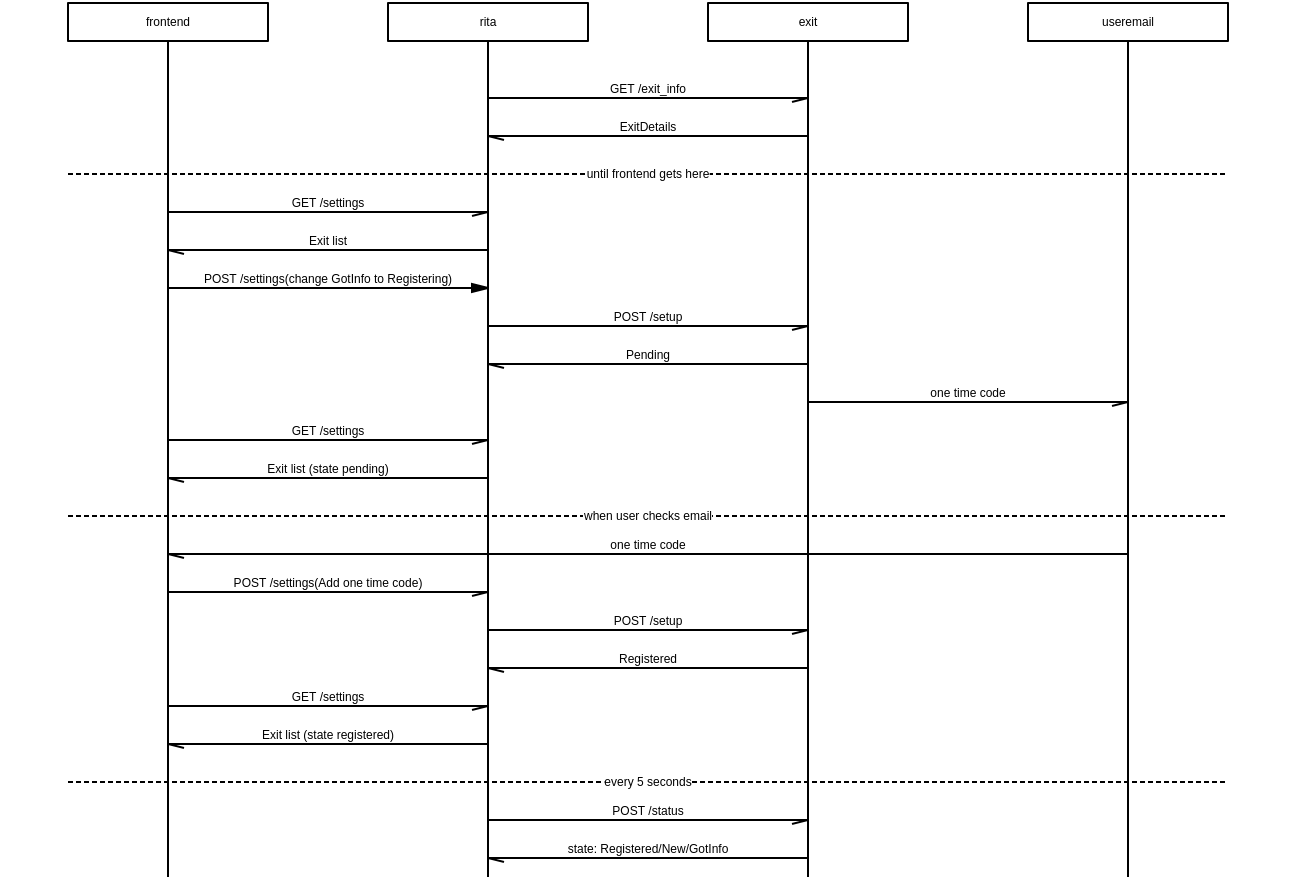
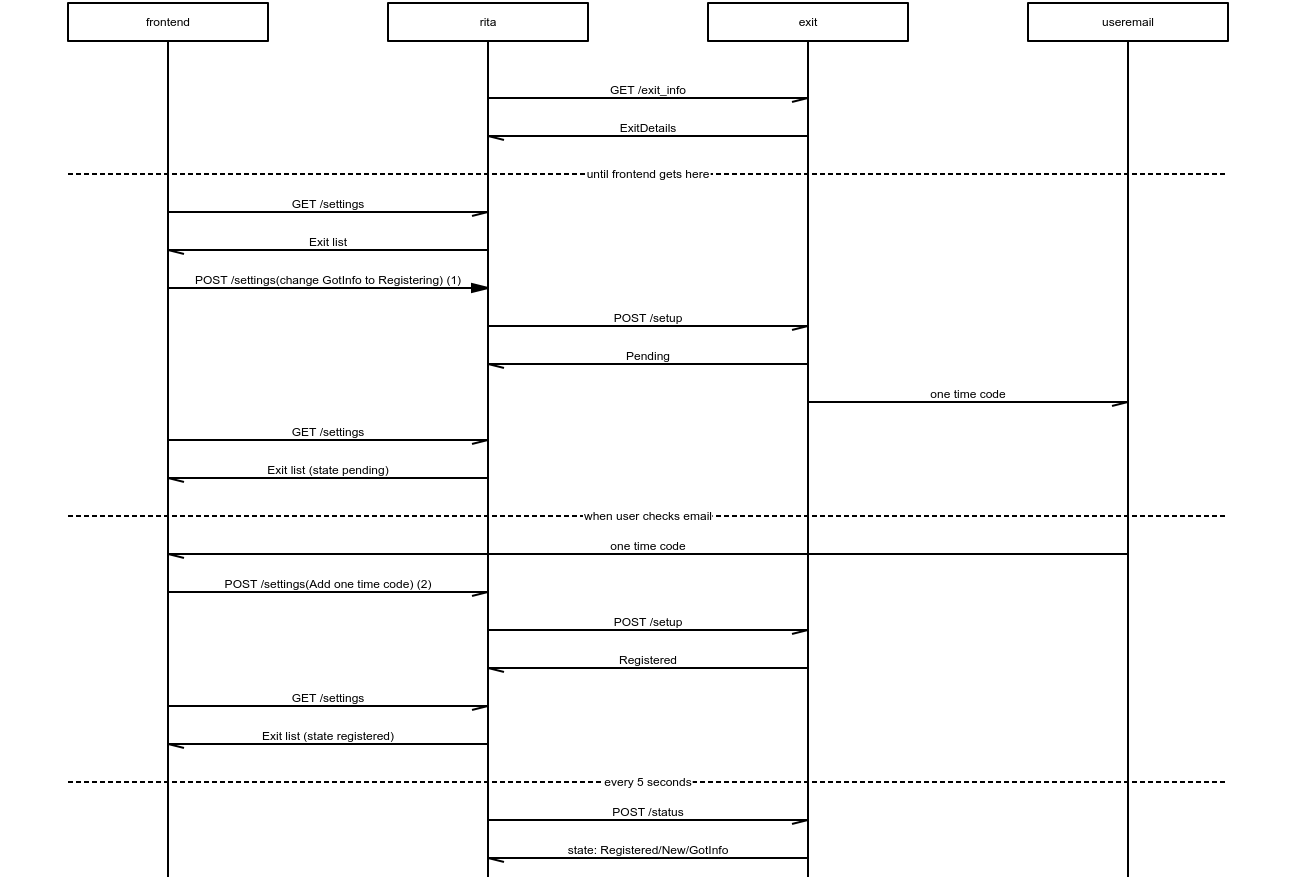
update documentation

diff --git a/docs/api/flow/exit-signup.md b/docs/api/flow/exit-signup.md
@@ -1,5 +1,10 @@
 ![](exit-signup-chart.png "exit signup flow diagram")
 
+# Dashboard requests required
+
+(numbers correspond to numbers in brackets in msc diagram)
+1. `curl -XPOST -H "Content-Type: application/json" 192.168.10.1:4877/settings -d '{"exit_client": {"exits": {"borked": {"state": "Registering"}}}}'`
+2. `curl -XPOST -H "Content-Type: application/json" 192.168.10.1:4877/settings -d '{"exit_client": {"exits": {"borked": {"email_code": "679320"}}}}'`
 
 ```msc
 msc {
@@ -15,7 +20,7 @@ msc {
   frontend->rita [ label = "GET /settings" ] ;
   frontend<-rita [ label = "Exit list" ] ;
 
-  frontend=>rita [ label = "POST /settings(change GotInfo to Registering)" ] ;
+  frontend=>rita [ label = "POST /settings(change GotInfo to Registering) (1)" ];
 
   rita->exit [ label = "POST /setup" ] ;
   rita<-exit [ label = "Pending" ] ;
@@ -29,7 +34,7 @@ msc {
 
   frontend<-useremail [ label = "one time code" ] ;
 
-  frontend->rita [ label = "POST /settings(Add one time code)" ] ;
+  frontend->rita [ label = "POST /settings(Add one time code) (2)" ] ;
 
   rita->exit [ label = "POST /setup" ] ;
   rita<-exit [ label = "Registered" ] ;
